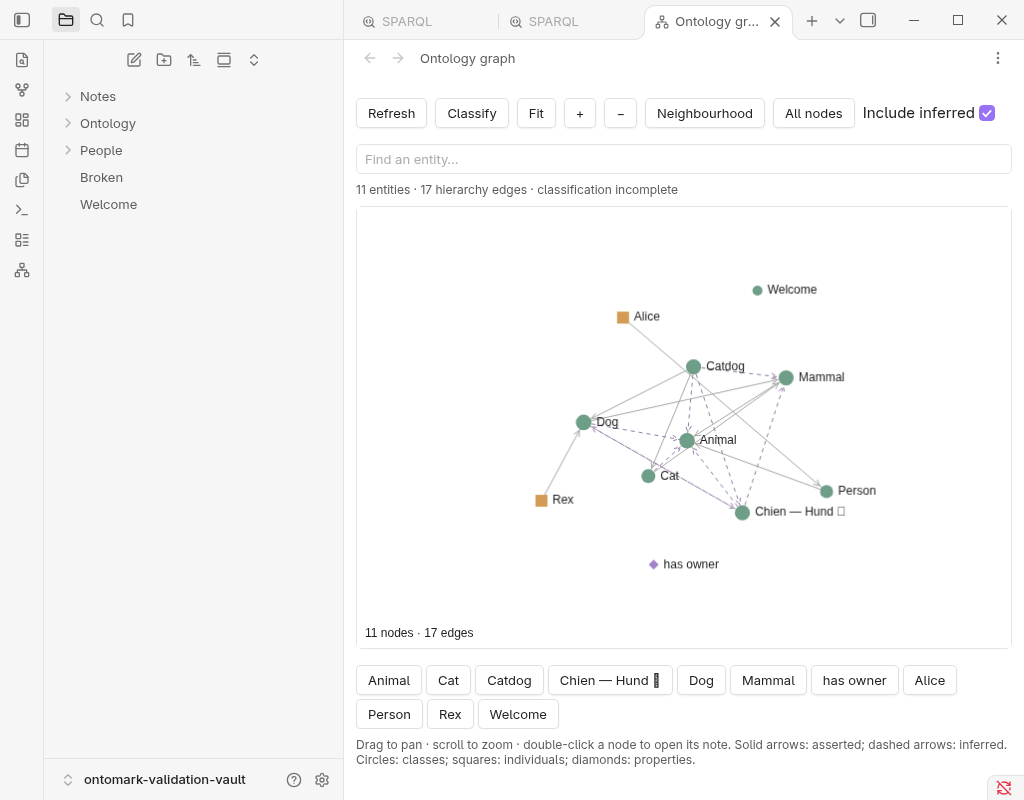
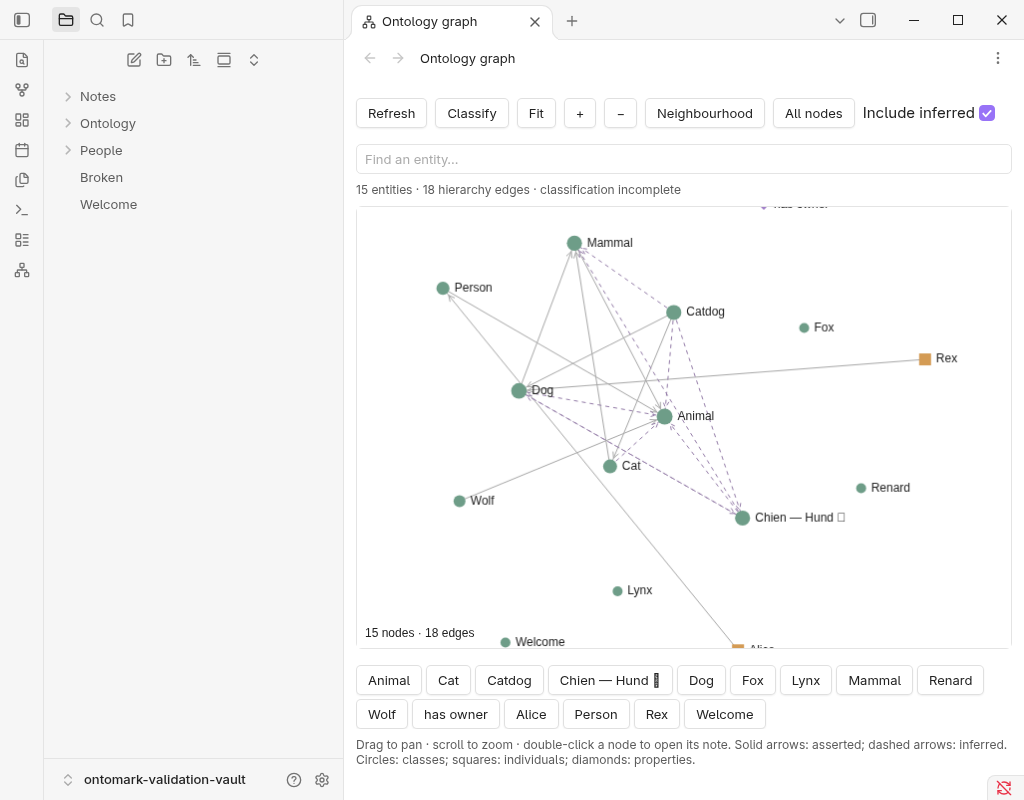
release: 0.3.3 — repin engine v0.2.2, list-form guidance, refreshed screenshots
Engine v0.2.2 reports a lone scalar relation as an info-level
`scalar_relation` note (Bases list filters skip text values; checked in
Obsidian 1.14.4). README recommends the list form; the screenshots are
retaken from the 0.3.3 build, with a new in-note SPARQL and a diagnostics
view; the acceptance record gains the Bases check and corrects the ingest
diff description.

diff --git a/docs/desktop-acceptance.md b/docs/desktop-acceptance.md
@@ -45,7 +45,7 @@ Plugin source `46c3c66` (engine `v0.2.0`, source `8a3b6cc`, verified by the SHA-
 | Plan | `ingestPlan` on a real class note: one chunk, six class-appropriate keys (no `instance-of`), evidence-bearing note block. No network. |
 | Session key | Entered through settings; `data.json` provably does not contain it. Cleared on unload. |
 | One call, one destination | The stub logged exactly one request, to the typed URL verbatim, bearer present (`evidence/desktop-ingest-stub-requests.jsonl`). |
-| Modal | Diff adding `subclass-of: [[Animal]]`, the accepted fact with its grounding tier and quote, and two refusals named (`ungrounded` for an invented class, `evidence_not_found` for a quote not in the note). `screenshots/ingest-modal.png`. |
+| Modal | Diff adding `subclass-of:` with the block-list item `'[[Animal]]'` (the plugin always writes the list form), the accepted fact with its grounding tier and quote, and two refusals named (`ungrounded` for an invented class, `evidence_not_found` for a quote not in the note). `screenshots/ingest-modal.png`. |
 | Apply | Real `vault.process` wrote exactly the proposed bytes; body preserved; one Notice; modal closed. |
 | Repeat run | The written fact returned as `already_present`; the two refusals persisted; one request. |
 | Stale edit | Editing the note between plan and accept refused with the digest mismatch; nothing written. |
@@ -56,3 +56,17 @@ Plugin source `46c3c66` (engine `v0.2.0`, source `8a3b6cc`, verified by the SHA-
 | Undo | Obsidian's editor undo restored the pre-apply text on disk. |
 
 Not covered: a real remote model, redirects from the endpoint, mobile. The manifest and README release amendment remains deferred to the release commit.
+
+## List versus text relations in Bases (2026-10-13)
+
+Checked on installed Obsidian 1.14.4 Linux, in the same scratch vault, driven over raw CDP against the Electron renderer. This tested Obsidian's Bases, not the plugin: three throwaway notes in a `_scalar-probe/` folder each set `test_property` to a link to `Target` as a lone quoted scalar (`"[[Target]]"`), as a block list and as a flow list. A base embedded in `Target` filtered with `test_property.contains(this.file.asLink())`. The folder was deleted afterwards.
+
+| Form of `test_property` | Returned by the base |
+| --- | --- |
+| `"[[Target]]"` (single value) | no |
+| `- "[[Target]]"` (block list) | yes |
+| `["[[Target]]"]` (flow list) | yes |
+
+[Screenshot](evidence/bases-scalar-vs-list.png): "2 results", BlockList and FlowList. Obsidian stores a lone value as text, so list functions skip it. The engine (0.2.2) still asserts the edge from all three forms and reports the lone scalar as an info-level `scalar_relation` note, as shown by a probe of the built WASM bundle, which also returned no note for either list form and `unquoted_wikilink` for the unquoted `[[A]]`. Assisted ingest is the plugin's only writer: it writes link relations as lists and promotes an existing lone value to a list, while single literals such as dates stay scalars.
+
+The README screenshots were refreshed the same day from plugin 0.3.3 installed in that vault (engine `v0.2.2`, source `150b42053dd9641163ec4d574c9b21e02c06009e`, verified by the SHA-256 in `engine.json`): the panel header reads `whelk-el 0.2.2`, the in-note `ontomark-sparql` block returned five rows for Rex, and the panel listed the `scalar_relation` info note beside an error and a warning. Two temporary notes were added for the last two screenshots and deleted; the vault's own notes were not changed. Release gates for 0.3.3: build with the provenance check on, 32 unit tests, the WASM harness (4), the bundle check (no findings), and the offline test under `docker --network none` (57 checks passed).

diff --git a/docs/screenshots/README.md b/docs/screenshots/README.md
@@ -1,5 +1,9 @@
 # Obsidian screenshots
 
-These unedited screenshots show the installed Ontomark plugin in Obsidian 1.14.4 on Linux. The scratch vault uses the repository’s synthetic test notes, including a deliberate unsatisfiable class and an unsupported property range. No private estate corpus is shown.
+These unedited screenshots show the Ontomark plugin 0.3.3 (engine 0.2.2, `whelk-el` 0.2.2) in Obsidian 1.14.4 on Linux. The scratch vault uses the repository's synthetic test notes, including a deliberate unsatisfiable class and an unsupported property range, plus four notes (Fox, Lynx, Renard, Wolf) left by the assisted-ingest acceptance runs. No private estate corpus is shown.
 
-The graph uses the pinned shared renderer 0.1.0 and engine recorded in `engine.json`. The ontology panel shows inferred parents and incomplete-classification diagnostics; SPARQL returns eight class rows after the synthetic guarded-edit test. Screenshots were captured through Chrome DevTools MCP in the browser sidecar. Runtime validation is documented in [desktop acceptance](../desktop-acceptance.md).
+- `graph.png`, `ontology-panel.png`, `sparql.png`: the vault as it is. The panel lists 12 classes and the SPARQL view returns 12 class rows.
+- `ontology-panel-diagnostics.png`, `sparql-in-note.png`: taken with two extra temporary notes, removed afterwards. `Ontology/Jackal.md` writes `subclass-of` as a single quoted link to show the info-level note; `Notes/Rex types.md` holds the `ontomark-sparql` block.
+- `ingest-modal.png`: the assisted-ingest diff from the 2026-10-12 acceptance run (plugin 0.2.x). The modal has not changed since.
+
+The graph uses the pinned shared renderer and the engine recorded in `engine.json`. Screenshots were captured over raw Chrome DevTools Protocol against the running Obsidian renderer. Runtime validation is documented in [desktop acceptance](../desktop-acceptance.md).

diff --git a/README.md b/README.md
@@ -80,6 +80,8 @@ SELECT ?type WHERE { __THIS__ rdf:type ?type } ORDER BY ?type
 ```
 ````
 
+![An ontomark-sparql block rendered in reading view: a table of the five types Rex has, stated or inferred](docs/screenshots/sparql-in-note.png)
+
 `__THIS__` is the note the block sits in; `[[Dog]]` or `[[Dog|the dog]]` is that note's entity; the first comment may pick the dataset. The query is plain SPARQL otherwise, so it pastes into the SPARQL view or any other engine unchanged. A reference that does not resolve stops the block with a reason, and nothing runs. The in-note surface and its two tokens follow Cristian Vasquez's [Dot Triples](https://github.com/cristianvasquez/dot-triples-plugin), with one difference: references inside string literals and comments are left alone ([ADR-OBS-004](docs/adr/ADR-OBS-004-in-note-sparql-after-dot-triples.md)).
 
 ## Why it works
@@ -136,6 +138,8 @@ Only notes with `type: class`, `type: individual` or `type: property` become ont
 | `domain`, `range`, `subproperty-of` | Property description and hierarchy |
 
 Write relations as a list of quoted links: `subclass-of: ["[[Animal]]"]`, or one `- "[[Animal]]"` per line. Ontomark reads a single quoted link too, but Obsidian stores that as text, so list filters in Bases such as `subclass-of.contains(this.file.asLink())` skip it; the panel notes it as info. An unquoted `[[Animal]]` is read by YAML as a nested list, so quote it.
+
+![The ontology panel's diagnostics: an error, a warning, and the info note for a relation written as a single value](docs/screenshots/ontology-panel-diagnostics.png)
 
 Other keys are kept as annotations. The default **Generic** profile works in any vault; the optional **Estate corpus** profile is for corpora that follow the VisionFlow contract.
 
